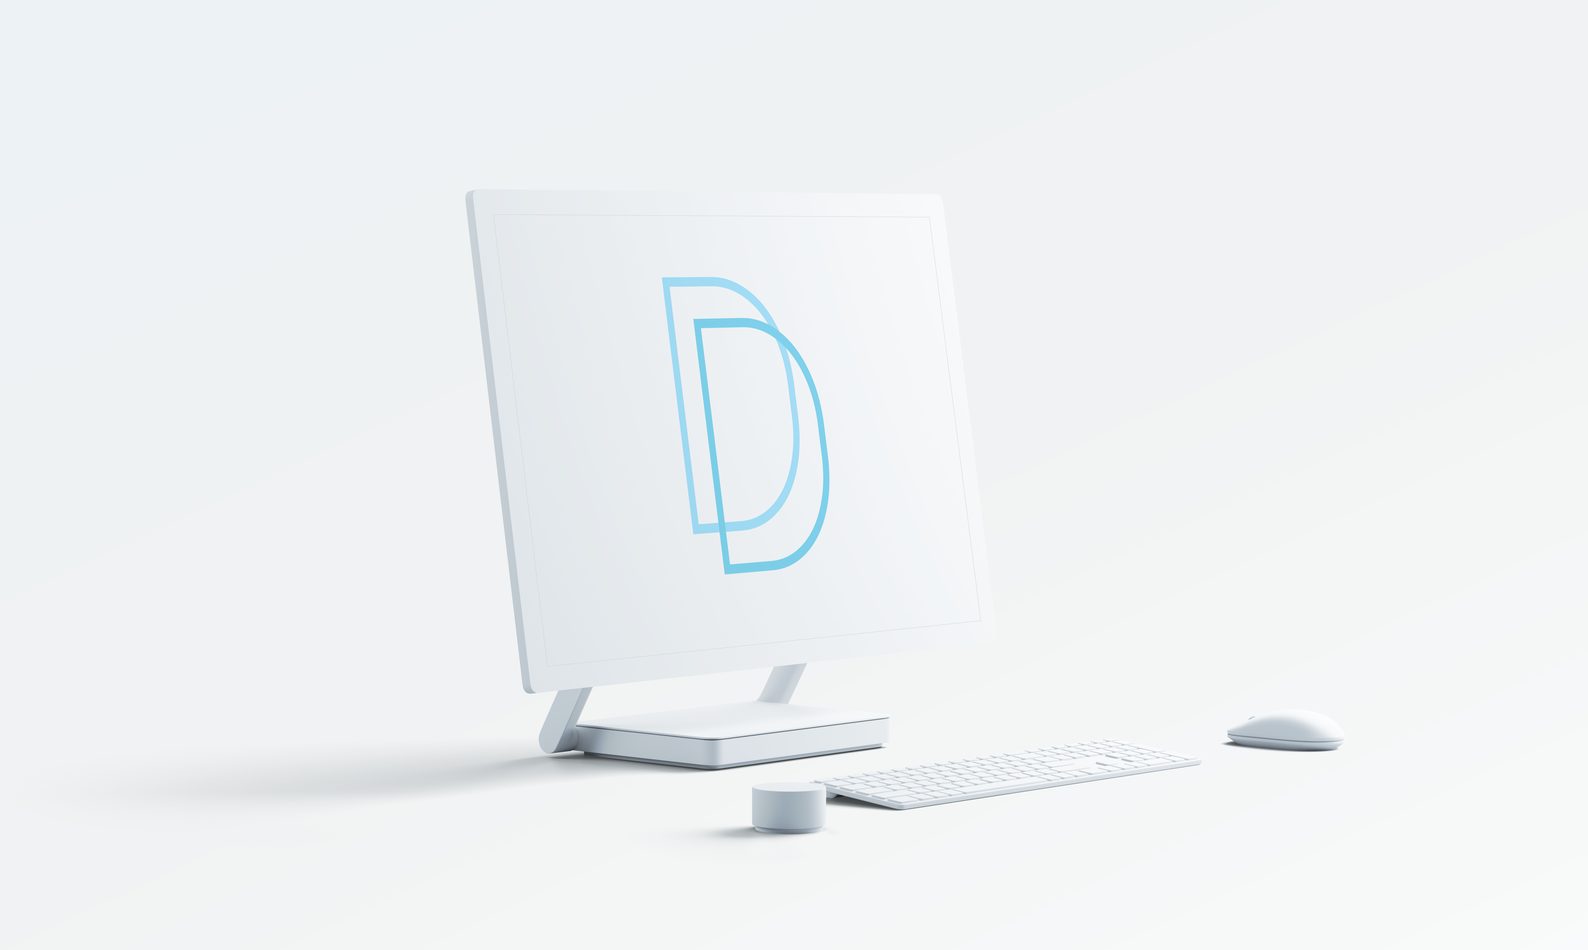
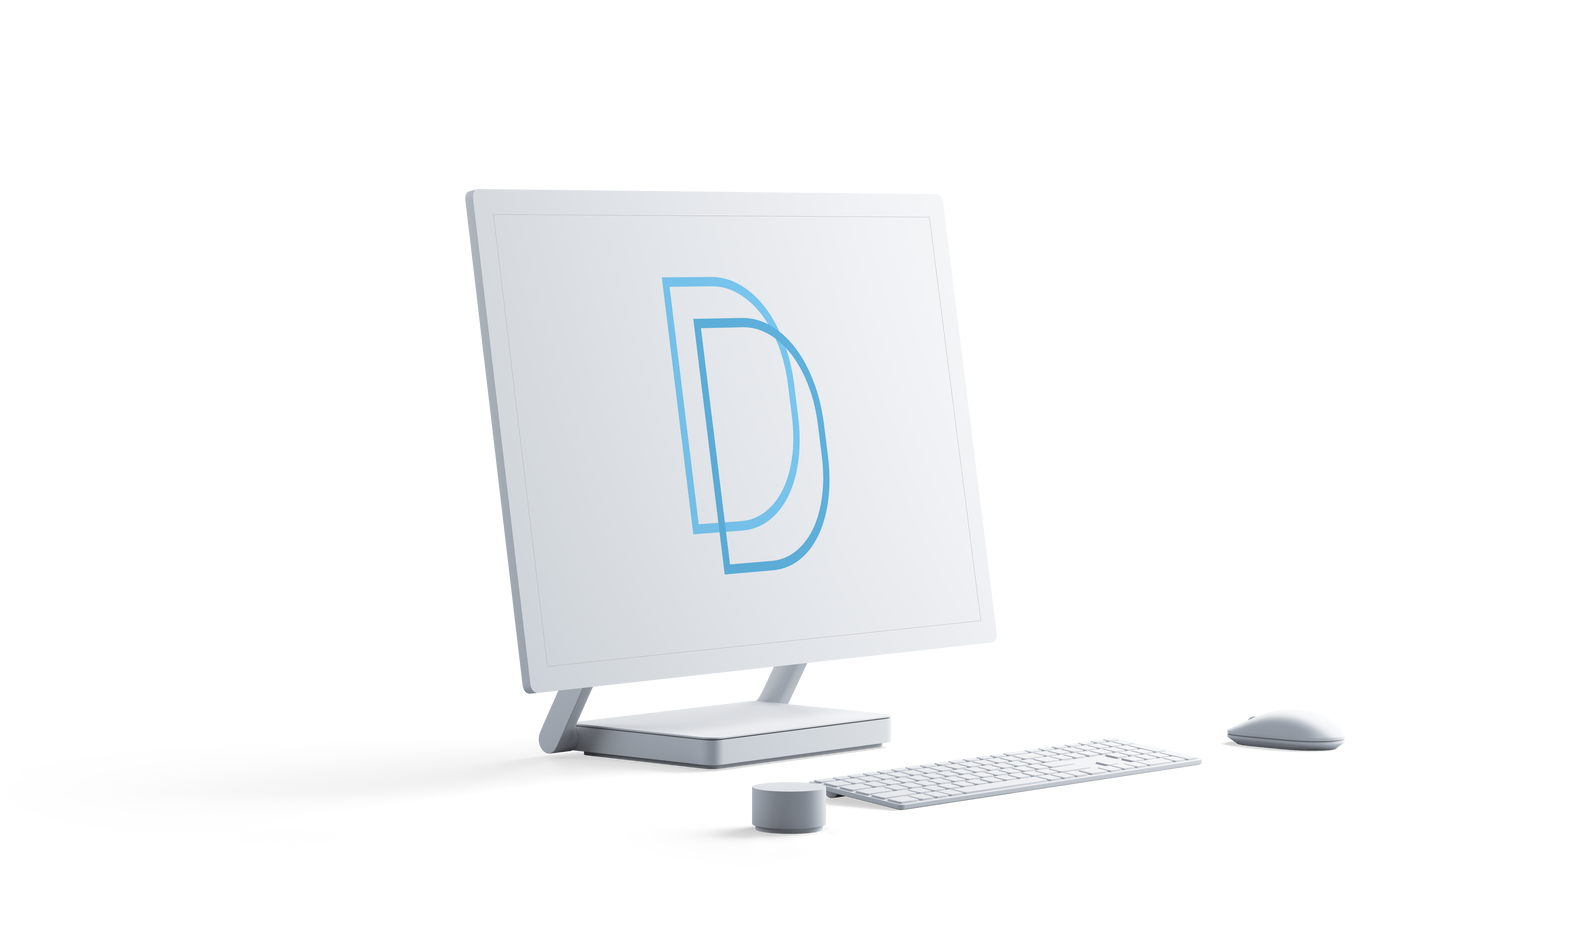
Update images, add spoilerblock

diff --git a/css/main.css b/css/main.css
@@ -59,7 +59,7 @@ p{
 	opacity: 0.3;
 	letter-spacing: 0px;
 	font-weight: 300px;
-	line-height: 25px; 
+	line-height: 25px;
 }
 a {
   color: inherit; /* blue colors for links too */
@@ -71,7 +71,7 @@ a {
   -webkit-animation: opacity-fade-03 1s ease-in-out 1 normal;
   -moz-animation: opacity-fade-03 1s ease-in-out 1 normal;
   -o-animation: opacity-fade-03 1s ease-in-out 1 normal;
-  animation: opacity-fade-03 1s ease-in-out 1 normal; 
+  animation: opacity-fade-03 1s ease-in-out 1 normal;
 }
 @keyframes opacity-fade-03 {
   0% {
@@ -79,13 +79,13 @@ a {
   }
   100% {
   	opacity: 0.3;
-  } 
+  }
 }
 .animate-opacity-fade-1 {
   -webkit-animation: opacity-fade-1 2s ease-in-out 1 normal;
   -moz-animation: opacity-fade-1 2s ease-in-out 1 normal;
   -o-animation: opacity-fade-1 2s ease-in-out 1 normal;
-  animation: opacity-fade-1 2s ease-in-out 1 normal; 
+  animation: opacity-fade-1 2s ease-in-out 1 normal;
 }
 @keyframes opacity-fade-1 {
   0% {
@@ -96,7 +96,7 @@ a {
   }
   100% {
   	opacity: 1.0;
-  } 
+  }
 }
 
 /*.delay-100 { animation-delay: 100ms; }
@@ -246,7 +246,7 @@ path.signiture {
 	/*padding-top: 500px;*/
 	fill: transparent;
 	stroke: #FF5216;
-	stroke-width: 2; 
+	stroke-width: 2;
 	stroke-dasharray: 2000;
 	stroke-dashoffset: 2000;
 	animation: draw 2s ease-in-out forwards;
@@ -331,14 +331,21 @@ a.project-card:hover{
   background-size: cover;
 }
 .decompressay-img{
-	background: url(../img/decompressay_thumb-min.png) no-repeat center center;
+	background: #EFF2F7 url(../img/decompressay_thumb-min.png) no-repeat center center;
 	-webkit-background-size: cover;
   -moz-background-size: cover;
   -o-background-size: cover;
   background-size: cover;
 }
 .phonology-img{
-	background: url(../img/phonology_thumb-min.png) no-repeat center center;
+	background: #EFF2F7 url(../img/phonology_thumb-min.png) no-repeat center center;
+	-webkit-background-size: cover;
+  -moz-background-size: cover;
+  -o-background-size: cover;
+  background-size: cover;
+}
+.spoilerblock-img{
+	background: #EFF2F7 url(../img/spoilerblock_thumb-min.png) no-repeat center center;
 	-webkit-background-size: cover;
   -moz-background-size: cover;
   -o-background-size: cover;

diff --git a/index.html b/index.html
@@ -102,12 +102,27 @@
 							<div class="project-card_content">
 								<h4>Developer</h4>
 								<h2>Phonology.io</h2>
-								<p>Easily memorize any phone number. For the few essential contacts you need, remember phrases instead.</p>
+								<p>Easily memorize any phone number.
+								For the few essential contacts you need, remember phrases instead.</p>
 							</div>
 						</a>
 					</div>
 
-					<div class="col-md-6 col-md-offset-3 padding-0">
+					<div class="col-md-6 padding-0">
+						<a class="project-card" href="https://chrome.google.com/webstore/detail/crunchyroll-spoilerblock/dbbnpojimocppbphbifbgoamnbogoajn" target="_blank">
+							<div class="project-card_thumb spoilerblock-img">
+							</div>
+							<div class="project-card_content">
+								<h4>Developer</h4>
+								<h2>Browser Spoilerblock</h2>
+								<p>Hide thumbnails and titles of content.
+									Find your episodes with your eyes open. Now available for Google Chrome on Crunchyroll.com.</p>
+							</div>
+						</a>
+					</div>
+
+					<!--  col-md-offset-3 -->
+					<div class="col-md-6 padding-0">
 						<div class="overlay center-flex">
 							<h3>coming soon</h3>
 						</div>
